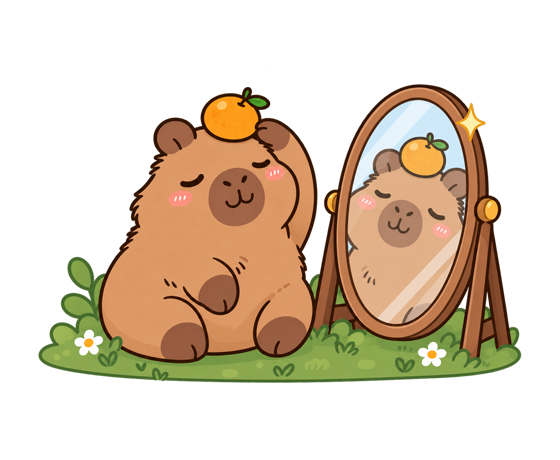
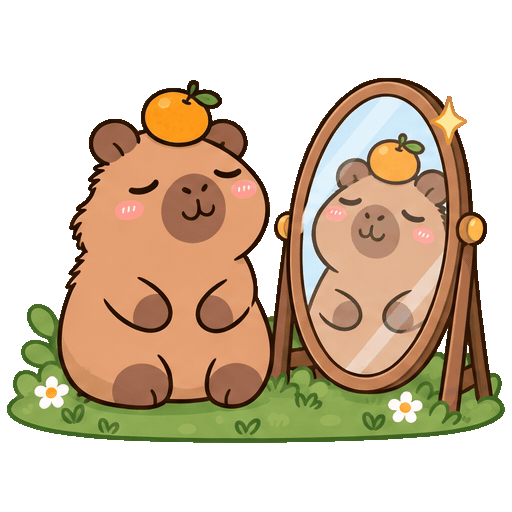
Replace Kapi Shop swaying GIFs with articulated pose animations

diff --git a/index.html b/index.html
@@ -800,7 +800,7 @@
             <div id="kapi-head-item" class="kapi-head">👑</div>
             <div id="kapi-accessory" class="kapi-accessory" aria-hidden="true"></div>
             <div id="kapi-activity" class="kapi-activity-layer" aria-hidden="true"><span class="scene-prop"></span><span class="scene-fx"></span></div>
-            <img id="kapi-gif-image" class="kapi-gif-image" src="assets/kapi-actions/gifs/kapi-default-still.png" width="560" height="460" alt="Kapi nhún nhảy">
+            <img id="kapi-gif-image" class="kapi-gif-image" src="assets/kapi-actions/gifs/kapi-default-still.png" width="512" height="512" alt="Kapi vẫy chào">
             <img src="capy.png" class="kapi-img" alt="Bé Kapi dễ thương">
         <div class="kapi-decor-grass">
                 <span class="decor-item">🌿</span>
@@ -1235,7 +1235,7 @@
             const url = base + (reduced ? '-still.png' : '.gif');
             const version = ++kapiGifLoadVersion;
             kapi.classList.add('kapi-gif-mode');
-            image.alt = item ? 'Kapi · ' + item.name : 'Kapi nhún nhảy';
+            image.alt = item ? 'Kapi · ' + item.name : 'Kapi vẫy chào';
             image.onload = () => {
                 if (version !== kapiGifLoadVersion) return;
                 image.onload = null;
